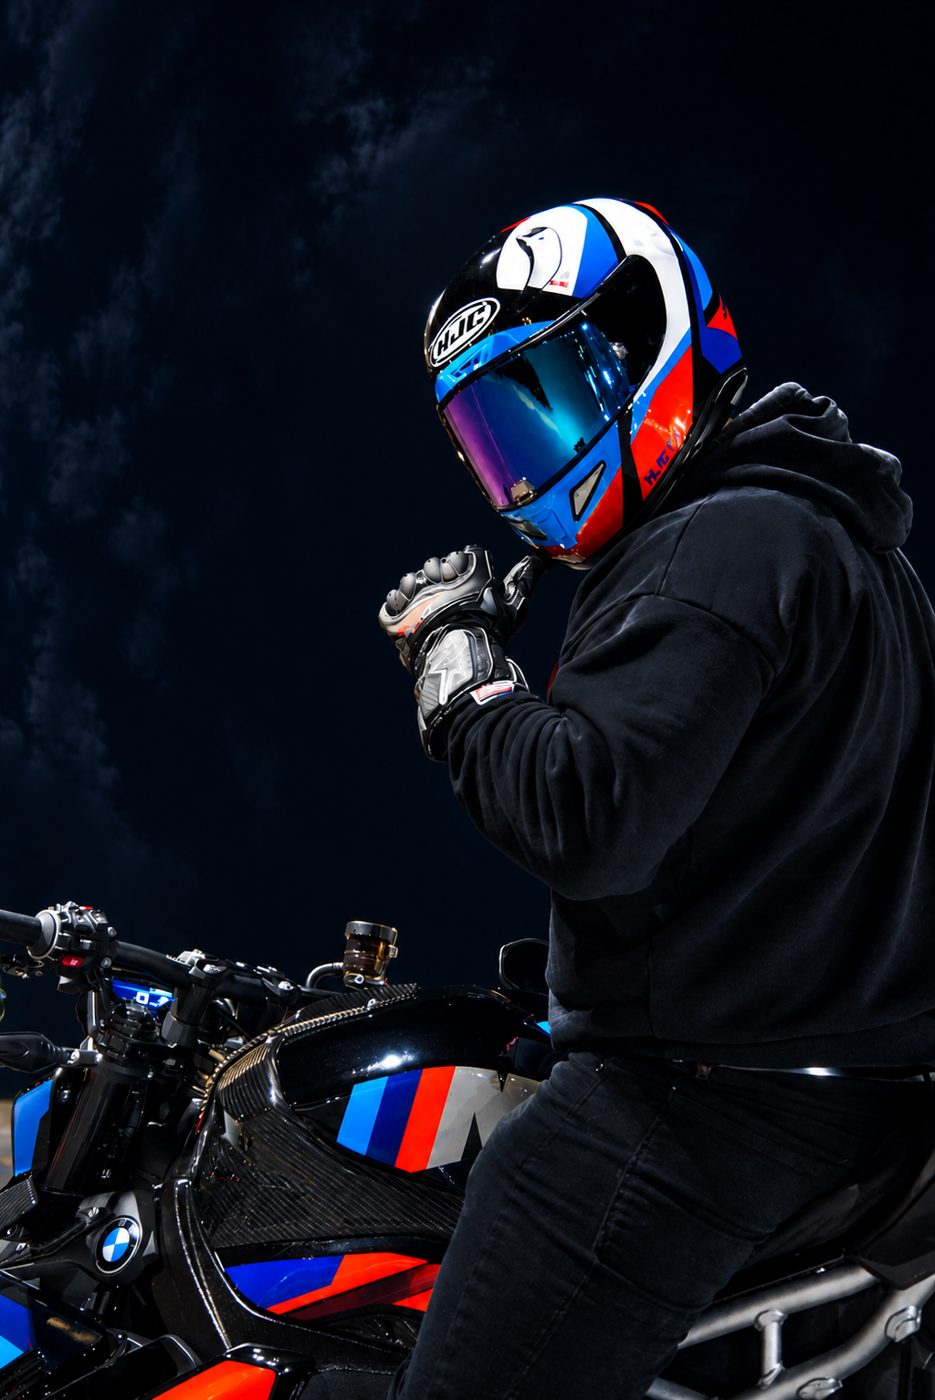
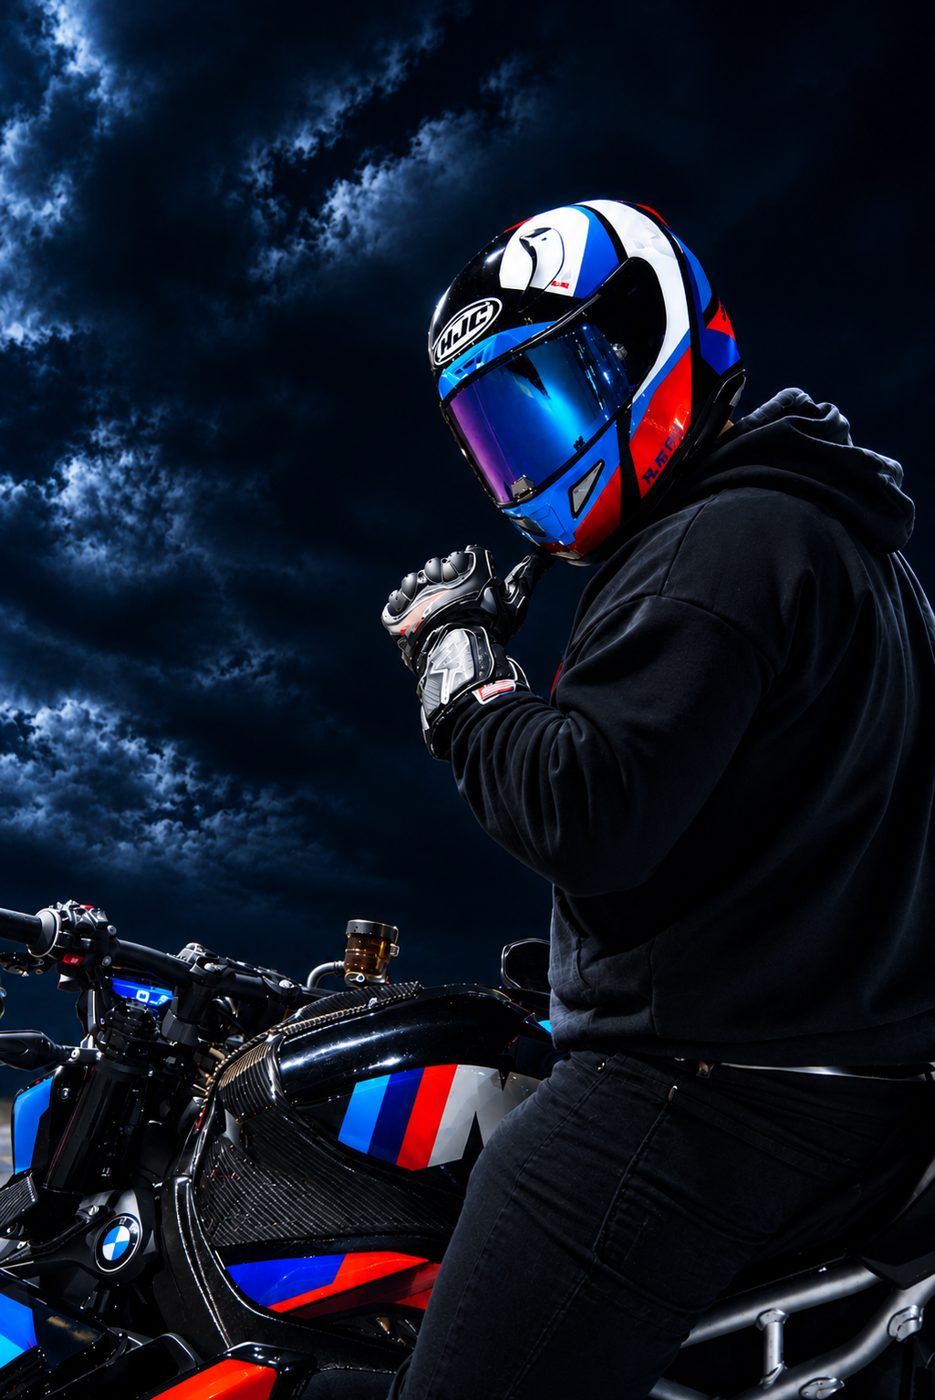
fix: corrige la carte Mont-Tremblant imbriquee par erreur + optimise les images ajoutees (cami.jpg, hero, bmw, mont-tremblant)

diff --git a/index.html b/index.html
@@ -1,17 +1,27 @@
 <!DOCTYPE html>
 <html lang="fr">
+
 <head>
   <meta charset="UTF-8">
   <meta name="viewport" content="width=device-width, initial-scale=1.0">
   <title>camibike360 — Motos, routes et vitesse</title>
-  <meta name="description" content="camibike360, le site compagnon de la chaîne YouTube dédiée aux motos, aux routes du Québec et à la passion de la vitesse.">
+  <meta name="description"
+    content="camibike360, le site compagnon de la chaîne YouTube dédiée aux motos, aux routes du Québec et à la passion de la vitesse.">
   <meta name="theme-color" content="#0D0D0D">
   <link rel="manifest" href="manifest.json">
   <link rel="icon" type="image/png" sizes="192x192" href="icons/icon-192.png">
   <link rel="apple-touch-icon" href="icons/icon-192.png">
   <link rel="stylesheet" href="css/styles.css">
-  <noscript><style>.reveal{opacity:1!important;transform:none!important;}</style></noscript>
+  <noscript>
+    <style>
+      .reveal {
+        opacity: 1 !important;
+        transform: none !important;
+      }
+    </style>
+  </noscript>
 </head>
+
 <body class="font-body">
   <a href="#main-content" class="skip-link">Aller au contenu principal</a>
 
@@ -22,7 +32,10 @@
         <div class="navbar__toggle">
           <button type="button" class="navbar__toggle-btn" id="navToggle" aria-expanded="false" aria-controls="navMenu">
             <span class="sr-only">Ouvrir le menu</span>
-            <svg width="22" height="22" viewBox="0 0 24 24" fill="none" stroke="currentColor" stroke-width="2" aria-hidden="true"><path d="M3 6h18M3 12h18M3 18h18"/></svg>
+            <svg width="22" height="22" viewBox="0 0 24 24" fill="none" stroke="currentColor" stroke-width="2"
+              aria-hidden="true">
+              <path d="M3 6h18M3 12h18M3 18h18" />
+            </svg>
           </button>
         </div>
         <ul class="navbar__menu" id="navMenu">
@@ -38,14 +51,18 @@
 
   <main id="main-content">
     <!-- ================= HERO ================= -->
-    <section class="hero" aria-labelledby="hero-title" style="background-image:url('img/hero-camilo-casco.png');background-size:cover;background-position:center 25%;">
+    <section class="hero" aria-labelledby="hero-title"
+      style="background-image:url('img/hero-camilo-casco.jpg');background-size:cover;background-position:center 25%;">
       <div class="hero__overlay" aria-hidden="true"></div>
       <div class="speed-lines absolute inset-0 overflow-hidden" aria-hidden="true"></div>
       <div class="hero__grid">
         <div class="hero__content reveal reveal--visible">
           <span class="hero__eyebrow">Nouvelle chaîne YouTube</span>
-          <h1 id="hero-title" class="hero__title">La route, le moteur, <span class="hero__title-accent">la passion</span>.</h1>
-          <p class="hero__subtitle">camibike360, c'est des vidéos de routes à couper le souffle, des tutoriels d'entretien sans jargon, et des conseils de sécurité qui viennent d'un vrai passionné de deux-roues au Québec.</p>
+          <h1 id="hero-title" class="hero__title">La route, le moteur, <span class="hero__title-accent">la
+              passion</span>.</h1>
+          <p class="hero__subtitle">camibike360, c'est des vidéos de routes à couper le souffle, des tutoriels
+            d'entretien sans jargon, et des conseils de sécurité qui viennent d'un vrai passionné de deux-roues au
+            Québec.</p>
           <div class="hero__actions">
             <a href="#derniers-videos" class="btn btn--primary animate-pulse-glow">Voir les vidéos</a>
             <a href="routes.html" class="btn btn--outline">Explorer les routes</a>
@@ -54,9 +71,12 @@
         <div class="col-span-12 lg:col-span-5">
           <div class="card reveal" data-reveal>
             <div class="card__media">
-              <img src="img/casco-visiere-perrita.jpg" alt="Casque de Camilo, décalque de sa chienne sur la visière" class="h-full w-full object-cover" loading="lazy">
+              <img src="img/casco-visiere-perrita.jpg" alt="Casque de Camilo, décalque de sa chienne sur la visière"
+                class="h-full w-full object-cover" loading="lazy">
               <button type="button" class="card__play absolute" aria-label="Lire la vidéo à la une">
-                <svg width="20" height="20" viewBox="0 0 24 24" fill="currentColor" aria-hidden="true"><path d="M8 5v14l11-7z"/></svg>
+                <svg width="20" height="20" viewBox="0 0 24 24" fill="currentColor" aria-hidden="true">
+                  <path d="M8 5v14l11-7z" />
+                </svg>
               </button>
             </div>
             <div class="card__body">
@@ -77,15 +97,23 @@
           <p class="section-subtitle">Un aperçu de ce qui se passe sur la chaîne cette saison.</p>
         </div>
         <div class="col-span-12 flex items-end justify-start lg:col-span-4 lg:justify-end">
-          <a href="#" class="btn--ghost font-heading text-sm font-semibold uppercase tracking-wide">Voir toutes les vidéos →</a>
+          <a href="#" class="btn--ghost font-heading text-sm font-semibold uppercase tracking-wide">Voir toutes les
+            vidéos →</a>
         </div>
       </div>
 
       <div class="mt-8 grid grid-cols-12 gap-6">
         <article class="col-span-12 sm:col-span-6 lg:col-span-3 card reveal" data-reveal>
           <div class="card__media">
-            <svg viewBox="0 0 200 120" class="h-full w-full" aria-hidden="true"><rect width="200" height="120" fill="#0D0D0D"/><path d="M0 90 L200 90" stroke="#333" stroke-width="6"/><path d="M20 90 L20 60 L60 60 L60 90" fill="none" stroke="#FF6B35" stroke-width="3"/></svg>
-            <span class="card__play absolute"><svg width="16" height="16" viewBox="0 0 24 24" fill="currentColor" aria-hidden="true"><path d="M8 5v14l11-7z"/></svg></span>
+            <svg viewBox="0 0 200 120" class="h-full w-full" aria-hidden="true">
+              <rect width="200" height="120" fill="#0D0D0D" />
+              <path d="M0 90 L200 90" stroke="#333" stroke-width="6" />
+              <path d="M20 90 L20 60 L60 60 L60 90" fill="none" stroke="#FF6B35" stroke-width="3" />
+            </svg>
+            <span class="card__play absolute"><svg width="16" height="16" viewBox="0 0 24 24" fill="currentColor"
+                aria-hidden="true">
+                <path d="M8 5v14l11-7z" />
+              </svg></span>
           </div>
           <div class="card__body">
             <span class="card__meta">Sécurité · 12 min</span>
@@ -97,8 +125,15 @@
 
         <article class="col-span-12 sm:col-span-6 lg:col-span-3 card reveal" data-reveal>
           <div class="card__media">
-            <svg viewBox="0 0 200 120" class="h-full w-full" aria-hidden="true"><rect width="200" height="120" fill="#0D0D0D"/><circle cx="100" cy="60" r="30" fill="none" stroke="#E4002B" stroke-width="4"/><path d="M100 40 L100 60 L115 70" stroke="#F5F5F5" stroke-width="3" fill="none"/></svg>
-            <span class="card__play absolute"><svg width="16" height="16" viewBox="0 0 24 24" fill="currentColor" aria-hidden="true"><path d="M8 5v14l11-7z"/></svg></span>
+            <svg viewBox="0 0 200 120" class="h-full w-full" aria-hidden="true">
+              <rect width="200" height="120" fill="#0D0D0D" />
+              <circle cx="100" cy="60" r="30" fill="none" stroke="#E4002B" stroke-width="4" />
+              <path d="M100 40 L100 60 L115 70" stroke="#F5F5F5" stroke-width="3" fill="none" />
+            </svg>
+            <span class="card__play absolute"><svg width="16" height="16" viewBox="0 0 24 24" fill="currentColor"
+                aria-hidden="true">
+                <path d="M8 5v14l11-7z" />
+              </svg></span>
           </div>
           <div class="card__body">
             <span class="card__meta">Entretien · 9 min</span>
@@ -108,10 +143,14 @@
           <div class="card__footer"><span>5,8 k vues</span><span>Il y a 1 semaine</span></div>
         </article>
 
-        <article class="col-span-12 sm:col-span-6 lg:col-span-3 card reveal" data-reveal>
+        <a href="https://youtube.com/shorts/bXMC48ZRUpE?si=dvJ0dEO-G-isdXHb" target="_blank" rel="noopener"
+          class="col-span-12 sm:col-span-6 lg:col-span-3 card reveal" data-reveal>
           <div class="card__media">
-            <svg viewBox="0 0 200 120" class="h-full w-full" aria-hidden="true"><rect width="200" height="120" fill="#0D0D0D"/><path d="M0 100 Q100 20 200 100" fill="none" stroke="#FF6B35" stroke-width="4"/></svg>
-            <span class="card__play absolute"><svg width="16" height="16" viewBox="0 0 24 24" fill="currentColor" aria-hidden="true"><path d="M8 5v14l11-7z"/></svg></span>
+            <img src="img/mont-tremblant.jpg" alt="" class="h-full w-full object-cover" loading="lazy">
+            <span class="card__play absolute"><svg width="16" height="16" viewBox="0 0 24 24" fill="currentColor"
+                aria-hidden="true">
+                <path d="M8 5v14l11-7z" />
+              </svg></span>
           </div>
           <div class="card__body">
             <span class="card__meta">Route · 18 min</span>
@@ -119,12 +158,19 @@
             <p class="card__text">Ma plus longue sortie à ce jour, à bord de la BMW M 1000 R.</p>
           </div>
           <div class="card__footer"><span>8,1 k vues</span><span>Il y a 3 semaines</span></div>
-        </article>
+        </a>
 
         <article class="col-span-12 sm:col-span-6 lg:col-span-3 card reveal" data-reveal>
           <div class="card__media">
-            <svg viewBox="0 0 200 120" class="h-full w-full" aria-hidden="true"><rect width="200" height="120" fill="#0D0D0D"/><rect x="70" y="40" width="60" height="40" rx="6" fill="none" stroke="#F5F5F5" stroke-width="3"/><path d="M85 60 h30" stroke="#E4002B" stroke-width="3"/></svg>
-            <span class="card__play absolute"><svg width="16" height="16" viewBox="0 0 24 24" fill="currentColor" aria-hidden="true"><path d="M8 5v14l11-7z"/></svg></span>
+            <svg viewBox="0 0 200 120" class="h-full w-full" aria-hidden="true">
+              <rect width="200" height="120" fill="#0D0D0D" />
+              <rect x="70" y="40" width="60" height="40" rx="6" fill="none" stroke="#F5F5F5" stroke-width="3" />
+              <path d="M85 60 h30" stroke="#E4002B" stroke-width="3" />
+            </svg>
+            <span class="card__play absolute"><svg width="16" height="16" viewBox="0 0 24 24" fill="currentColor"
+                aria-hidden="true">
+                <path d="M8 5v14l11-7z" />
+              </svg></span>
           </div>
           <div class="card__body">
             <span class="card__meta">Conduite · 14 min</span>
@@ -140,7 +186,7 @@
     <section class="bg-racing-dark py-16" aria-labelledby="apropos-title">
       <div class="mx-auto grid max-w-7xl grid-cols-12 items-center gap-8 px-4 sm:px-6">
         <div class="col-span-12 lg:col-span-5 reveal" data-reveal>
-          <img src="img/cami.png" alt="Casque de Camilo, vue latérale" class="w-full rounded-lg" loading="lazy">
+          <img src="img/cami.jpg" alt="Camilo sur sa moto, avec affichage de navigation" class="w-full rounded-lg" loading="lazy">
         </div>
         <div class="col-span-12 lg:col-span-7 reveal" data-reveal>
           <h2 id="apropos-title" class="section-title">Qui suis-je ?</h2>
@@ -162,7 +208,8 @@
     <div class="footer__grid">
       <div class="footer__col">
         <h2 class="footer__heading">camibike360</h2>
-        <p class="text-sm text-racing-text/70">Le site compagnon de la chaîne YouTube camibike360 : routes, tutoriels et sécurité moto.</p>
+        <p class="text-sm text-racing-text/70">Le site compagnon de la chaîne YouTube camibike360 : routes, tutoriels et
+          sécurité moto.</p>
       </div>
       <div class="footer__col">
         <h2 class="footer__heading">Navigation</h2>
@@ -173,22 +220,42 @@
       </div>
       <div class="footer__col">
         <h2 class="footer__heading">Projet</h2>
-        <a href="https://github.com/camilosolano13-jpg/TP3_SolanoCamilo" class="footer__link" target="_blank" rel="noopener">Code source (GitHub)</a>
-        <a href="https://camilosolano13-jpg.github.io/TP3_SolanoCamilo/" class="footer__link" target="_blank" rel="noopener">Site hébergé (GitHub Pages)</a>
+        <a href="https://github.com/camilosolano13-jpg/TP3_SolanoCamilo" class="footer__link" target="_blank"
+          rel="noopener">Code source (GitHub)</a>
+        <a href="https://camilosolano13-jpg.github.io/TP3_SolanoCamilo/" class="footer__link" target="_blank"
+          rel="noopener">Site hébergé (GitHub Pages)</a>
         <a href="contact.html" class="footer__link">Contact</a>
       </div>
       <div class="footer__col">
         <h2 class="footer__heading">Suivez la chaîne</h2>
         <div class="footer__social">
-          <a href="https://www.youtube.com/@camibike360" class="footer__social-link" aria-label="YouTube camibike360" target="_blank" rel="noopener"><svg width="18" height="18" viewBox="0 0 24 24" fill="currentColor" aria-hidden="true"><path d="M23 12s0-3.4-.4-5a3 3 0 0 0-2.1-2.1C18.9 4.5 12 4.5 12 4.5s-6.9 0-8.5.4A3 3 0 0 0 1.4 7C1 8.6 1 12 1 12s0 3.4.4 5a3 3 0 0 0 2.1 2.1c1.6.4 8.5.4 8.5.4s6.9 0 8.5-.4A3 3 0 0 0 22.6 17c.4-1.6.4-5 .4-5ZM9.8 15.5v-7l6 3.5Z"/></svg></a>
-          <a href="https://www.instagram.com/camibike360" class="footer__social-link" aria-label="Instagram camibike360" target="_blank" rel="noopener"><svg width="18" height="18" viewBox="0 0 24 24" fill="none" stroke="currentColor" stroke-width="2" aria-hidden="true"><rect x="3" y="3" width="18" height="18" rx="5"/><circle cx="12" cy="12" r="4"/><circle cx="17.5" cy="6.5" r="1"/></svg></a>
-          <a href="https://www.tiktok.com/@camibike360" class="footer__social-link" aria-label="TikTok camibike360" target="_blank" rel="noopener"><svg width="18" height="18" viewBox="0 0 24 24" fill="currentColor" aria-hidden="true"><path d="M14 3v10.5a2.5 2.5 0 1 1-2-2.45V9a4.5 4.5 0 1 0 4 4.47V8a5.5 5.5 0 0 0 4 1.7V7.6A3.5 3.5 0 0 1 16.9 4H14Z"/></svg></a>
+          <a href="https://www.youtube.com/@camibike360" class="footer__social-link" aria-label="YouTube camibike360"
+            target="_blank" rel="noopener"><svg width="18" height="18" viewBox="0 0 24 24" fill="currentColor"
+              aria-hidden="true">
+              <path
+                d="M23 12s0-3.4-.4-5a3 3 0 0 0-2.1-2.1C18.9 4.5 12 4.5 12 4.5s-6.9 0-8.5.4A3 3 0 0 0 1.4 7C1 8.6 1 12 1 12s0 3.4.4 5a3 3 0 0 0 2.1 2.1c1.6.4 8.5.4 8.5.4s6.9 0 8.5-.4A3 3 0 0 0 22.6 17c.4-1.6.4-5 .4-5ZM9.8 15.5v-7l6 3.5Z" />
+            </svg></a>
+          <a href="https://www.instagram.com/camibike360" class="footer__social-link" aria-label="Instagram camibike360"
+            target="_blank" rel="noopener"><svg width="18" height="18" viewBox="0 0 24 24" fill="none"
+              stroke="currentColor" stroke-width="2" aria-hidden="true">
+              <rect x="3" y="3" width="18" height="18" rx="5" />
+              <circle cx="12" cy="12" r="4" />
+              <circle cx="17.5" cy="6.5" r="1" />
+            </svg></a>
+          <a href="https://www.tiktok.com/@camibike360" class="footer__social-link" aria-label="TikTok camibike360"
+            target="_blank" rel="noopener"><svg width="18" height="18" viewBox="0 0 24 24" fill="currentColor"
+              aria-hidden="true">
+              <path
+                d="M14 3v10.5a2.5 2.5 0 1 1-2-2.45V9a4.5 4.5 0 1 0 4 4.47V8a5.5 5.5 0 0 0 4 1.7V7.6A3.5 3.5 0 0 1 16.9 4H14Z" />
+            </svg></a>
         </div>
       </div>
     </div>
-    <p class="footer__bottom">&copy; 2026 camibike360 — Camilo Solano. Projet réalisé dans le cadre du cours Technique d'intégration des interfaces Web 2.</p>
+    <p class="footer__bottom">&copy; 2026 camibike360 — Camilo Solano. Projet réalisé dans le cadre du cours Technique
+      d'intégration des interfaces Web 2.</p>
   </footer>
 
   <script src="js/main.js" defer></script>
 </body>
+
 </html>
